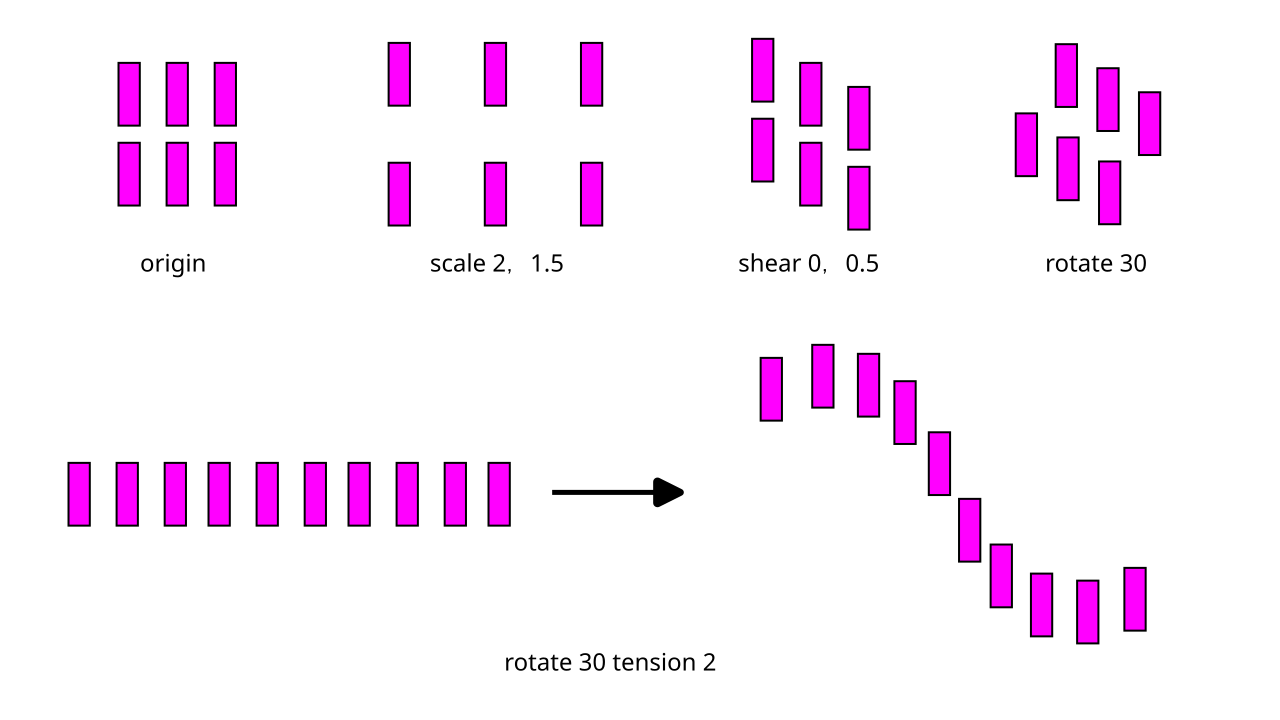
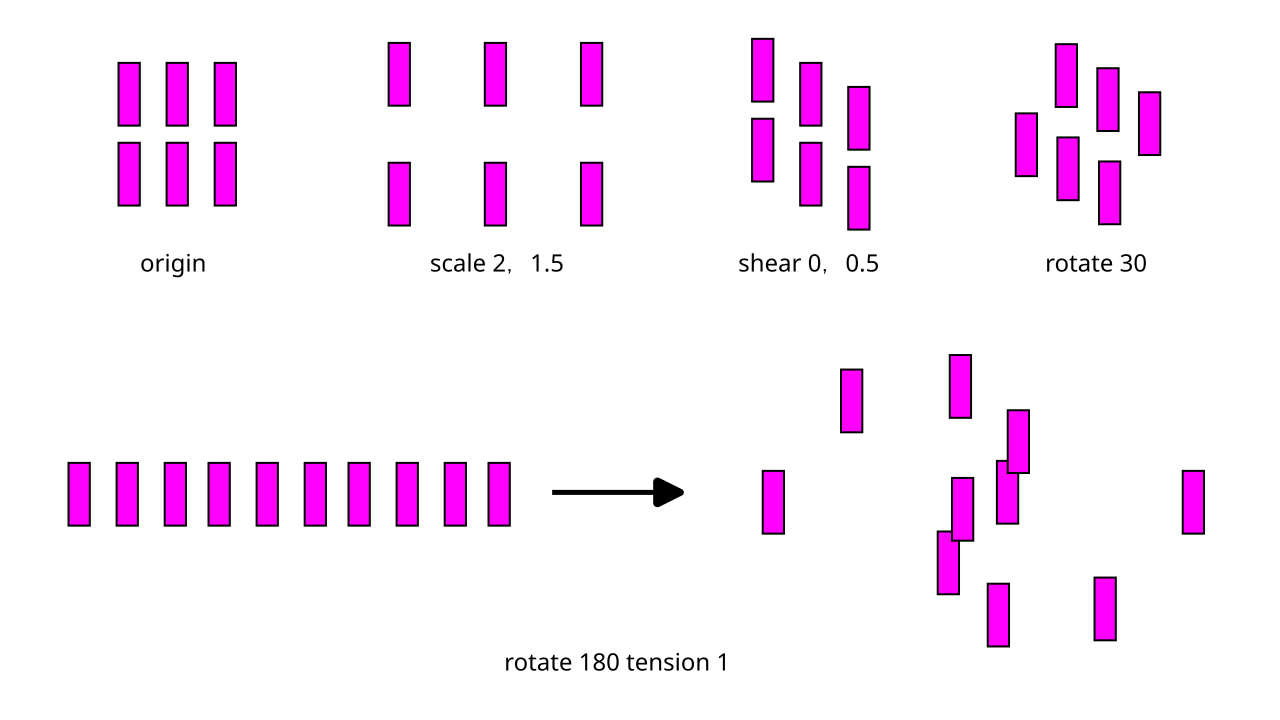
make rotate tension linear

diff --git a/layout_transform.py b/layout_transform.py
@@ -97,9 +97,9 @@ class LayoutTransform(inkex.EffectExtension):
         if has_scale:
             ox = cx - center_x
             oy = cy - center_y
+            w = self._tension_weights(ox, oy)
             dx = ox * (scale_x - 1.0)
             dy = oy * (scale_y - 1.0)
-            w = self._tension_weights(ox, oy)
             dx *= w
             dy *= w
             total_dx += dx
@@ -111,15 +111,13 @@ class LayoutTransform(inkex.EffectExtension):
         if has_rotate:
             ox = cx - center_x
             oy = cy - center_y
-            cos_a = math.cos(angle_rad)
-            sin_a = math.sin(angle_rad)
+            w = self._tension_weights(ox, oy)
+            cos_a = np.cos(w * angle_rad)
+            sin_a = np.sin(w * angle_rad)
             new_ox = ox * cos_a - oy * sin_a
             new_oy = ox * sin_a + oy * cos_a
             dx = new_ox - ox
             dy = new_oy - oy
-            w = self._tension_weights(ox, oy)
-            dx *= w
-            dy *= w
             total_dx += dx
             total_dy += dy
 
